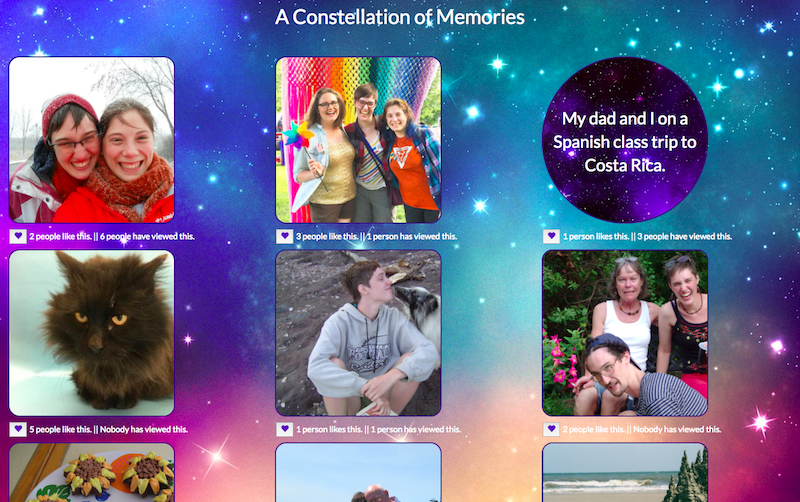
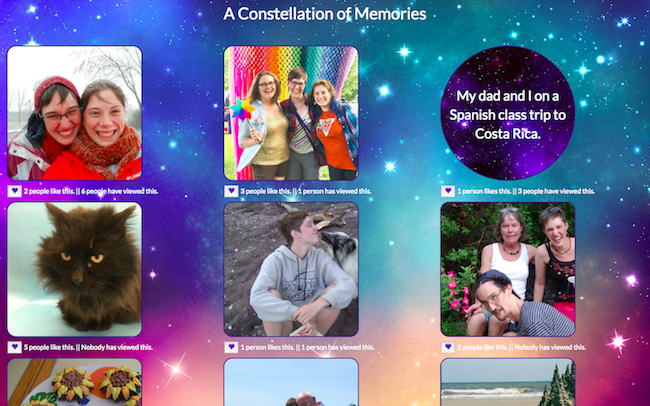
changed styling of portfolio section

diff --git a/index.html b/index.html
@@ -159,65 +159,95 @@
         <div class="container">
           <h2 class="text-center text-uppercase text-secondary mb-0">Portfolio</h2>
           <hr class="star-dark mb-5">
-          <div class="row">
+          <div class="row no-gutters popup-gallery">
             <div class="col-md-6 col-lg-4">
               <a class="portfolio-item d-block mx-auto" href="#portfolio-modal-1">
                 <div class="portfolio-item-caption d-flex position-absolute h-100 w-100">
                   <div class="portfolio-item-caption-content my-auto w-100 text-center text-white">
-                    <i class="fa fa-search-plus fa-3x"></i>
+                      <div class="project-category text-faded">
+                          Solo Project
+                        </div>
+                        <div class="project-name">
+                          Split It Up!
+                        </div>
                   </div>
                 </div>
-                <img class="img-fluid" src="img/portfolio/thumbnails/1.jpg" alt="">
+                <img class="img-fluid" src="img/portfolio/split-it-up.png" alt="">
               </a>
             </div>
             <div class="col-md-6 col-lg-4">
               <a class="portfolio-item d-block mx-auto" href="#portfolio-modal-2">
                 <div class="portfolio-item-caption d-flex position-absolute h-100 w-100">
                   <div class="portfolio-item-caption-content my-auto w-100 text-center text-white">
-                    <i class="fa fa-search-plus fa-3x"></i>
+                      <div class="project-category text-faded">
+                          Group Project
+                        </div>
+                        <div class="project-name">
+                          Andrew Residence Scheduling App
+                        </div>
                   </div>
                 </div>
-                <img class="img-fluid" src="img/portfolio/thumbnails/2.jpg" alt="">
+                <img class="img-fluid" src="img/portfolio/andrew-residence.png" alt="">
               </a>
             </div>
             <div class="col-md-6 col-lg-4">
               <a class="portfolio-item d-block mx-auto" href="#portfolio-modal-3">
                 <div class="portfolio-item-caption d-flex position-absolute h-100 w-100">
                   <div class="portfolio-item-caption-content my-auto w-100 text-center text-white">
-                    <i class="fa fa-search-plus fa-3x"></i>
+                      <div class="project-category text-faded">
+                          Hack the Gap Project
+                        </div>
+                        <div class="project-name">
+                          Totally Radish
+                        </div>
                   </div>
                 </div>
-                <img class="img-fluid" src="img/portfolio/thumbnails/3.jpg" alt="">
+                <img class="img-fluid" src="img/portfolio/totally-radish.png" alt="">
               </a>
             </div>
             <div class="col-md-6 col-lg-4">
               <a class="portfolio-item d-block mx-auto" href="#portfolio-modal-4">
                 <div class="portfolio-item-caption d-flex position-absolute h-100 w-100">
                   <div class="portfolio-item-caption-content my-auto w-100 text-center text-white">
-                    <i class="fa fa-search-plus fa-3x"></i>
+                      <div class="project-category text-faded">
+                          MEAN Stack Assignment
+                        </div>
+                        <div class="project-name">
+                          Real Estate Project
+                        </div>
                   </div>
                 </div>
-                <img class="img-fluid" src="img/portfolio/thumbnails/4.jpg" alt="">
+                <img class="img-fluid" src="img/portfolio/real-estate.png" alt="">
               </a>
             </div>
             <div class="col-md-6 col-lg-4">
               <a class="portfolio-item d-block mx-auto" href="#portfolio-modal-5">
                 <div class="portfolio-item-caption d-flex position-absolute h-100 w-100">
                   <div class="portfolio-item-caption-content my-auto w-100 text-center text-white">
-                    <i class="fa fa-search-plus fa-3x"></i>
+                      <div class="project-category text-faded">
+                          AngularJS Assignment
+                        </div>
+                        <div class="project-name">
+                          The Gallery of My Life
+                        </div>
                   </div>
                 </div>
-                <img class="img-fluid" src="img/portfolio/thumbnails/5.jpg" alt="">
+                <img class="img-fluid" src="img/portfolio/gallery-of-my-life.png" alt="">
               </a>
             </div>
             <div class="col-md-6 col-lg-4">
               <a class="portfolio-item d-block mx-auto" href="#portfolio-modal-6">
                 <div class="portfolio-item-caption d-flex position-absolute h-100 w-100">
-                  <div class="portfolio-item-caption-content my-auto w-100 text-center text-white">
-                    <i class="fa fa-search-plus fa-3x"></i>
+                  <div class="portfolio-item-caption-content my-auto w-100 text-center">
+                      <div class="project-category text-faded">
+                          Full-stack assignment
+                        </div>
+                        <div class="project-name">
+                          To-Do List Project
+                        </div>
                   </div>
                 </div>
-                <img class="img-fluid" src="img/portfolio/thumbnails/6.jpg" alt="">
+                <img class="img-fluid" src="img/portfolio/to-do-app.png" alt="">
               </a>
             </div>
           </div>

diff --git a/css/creative.css b/css/creative.css
@@ -180,22 +180,38 @@ header.masthead {
   max-width: 400px; }
 
   .portfolio {
+    background-color: rgb(49, 7, 145);
     margin-bottom: -15px; }
     .portfolio .portfolio-item {
       position: relative;
       display: block;
-      max-width: 25rem;
-      margin-bottom: 15px; }
+      max-width: 650px;
+      margin: 0 auto;
+  
+    }
       .portfolio .portfolio-item .portfolio-item-caption {
         -webkit-transition: all ease 0.5s;
         -moz-transition: all ease 0.5s;
         transition: all ease 0.5s;
         opacity: 0;
+        
         background-color: rgba(24, 188, 156, 0.9); }
         .portfolio .portfolio-item .portfolio-item-caption:hover {
           opacity: 1; }
-        .portfolio .portfolio-item .portfolio-item-caption .portfolio-item-caption-content {
-          font-size: 1.5rem; }
+        .portfolio .portfolio-item .portfolio-item-caption .portfolio-item-caption-content .project-category {
+          font-size: 18px;
+          font-weight: 600;
+          text-transform: uppercase;
+          padding: 0 15px;
+          font-family: 'Open Sans', 'Helvetica Neue', Arial, sans-serif;
+          color: rgba(2, 2, 92, 0.9);
+         }
+         .portfolio .portfolio-item .portfolio-item-caption .portfolio-item-caption-content .project-name {
+          font-size: 22px;
+          padding: 0 15px;
+          color: #fff;
+          font-family: 'Open Sans', 'Helvetica Neue', Arial, sans-serif;
+         }
     @media (min-width: 576px) {
       .portfolio {
         margin-bottom: -30px; }
